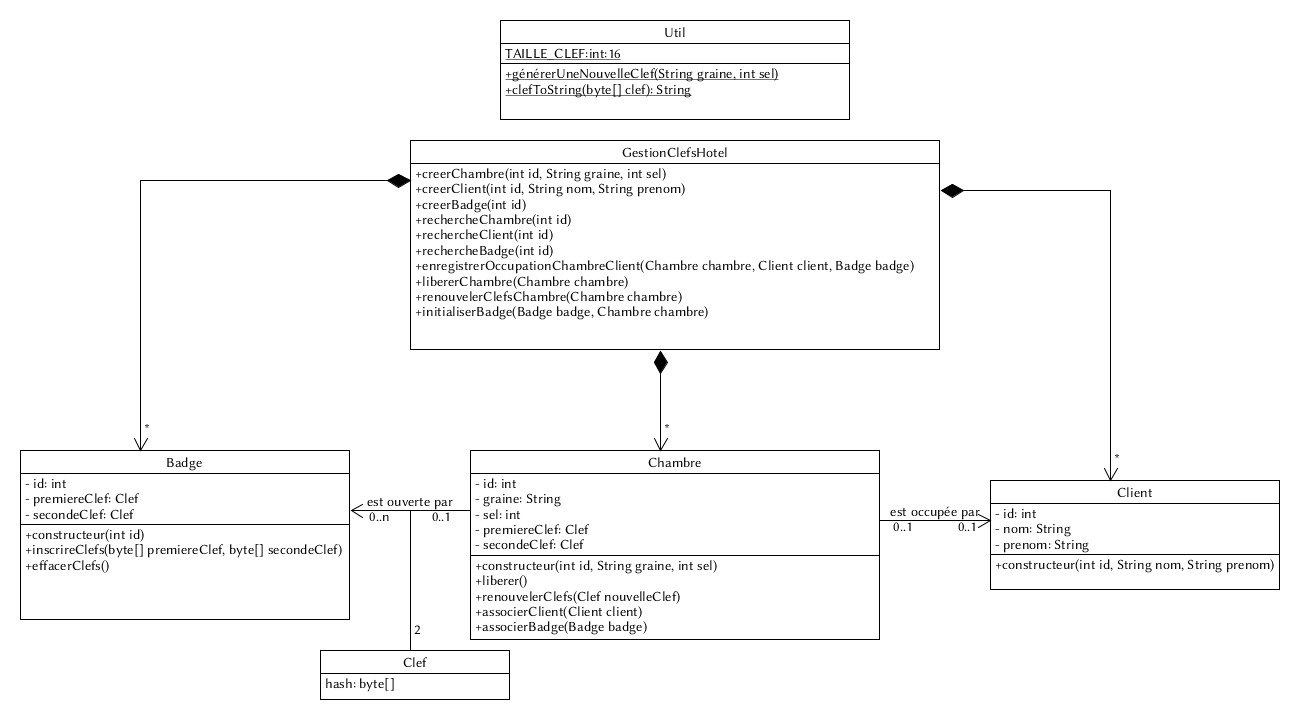
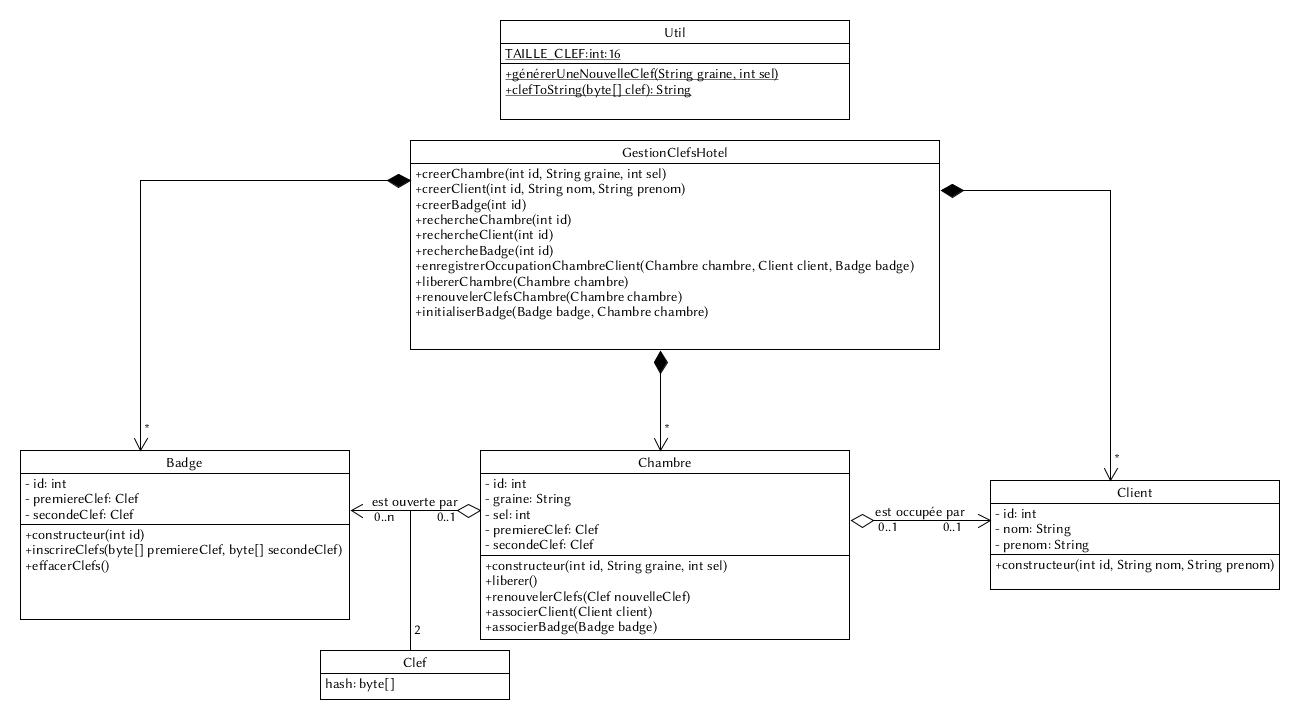
mise à jour du diagramme de classes

Changed region(s): [[0.2769, 0.6417, 0.5538, 0.8861], [0.6462, 0.7028, 0.7692, 0.7333], [0.4923, 0.6417, 0.5231, 0.6722]]

diff --git a/Suivi/readme.md b/Suivi/readme.md
@@ -57,8 +57,9 @@ Elisabeth Brunet
 
 Bon travail avec des précisions à apporter et à achever.
 
-- [] Diagramme de classes
-    - [] Vous avez encore des associations qui ne sont pas traduites avec des relations d'agrégation/composition.
+- [x] Diagramme de classes
+    - [x] Vous avez encore des associations qui ne sont pas traduites avec des relations d'agrégation/composition.
+    --> relations d'agrégations ajoutées au diagramme de classes entre Chambre/Badge et Chambre/Client
 - [] Fiche des classes
     - [] Je n'ai pas regardé en détail mais cela me semble sur la bonne voie
     - [] "au plus une clé" -> que voulez-vous indiquer? 
